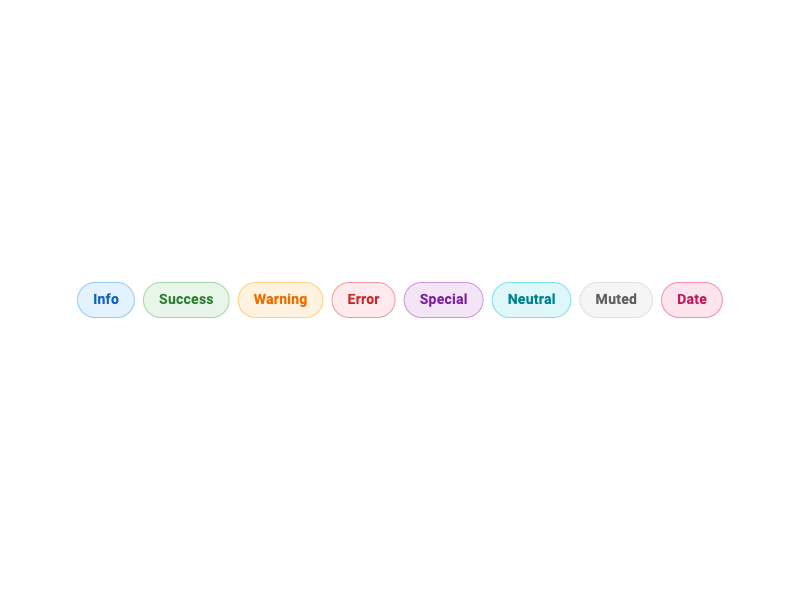
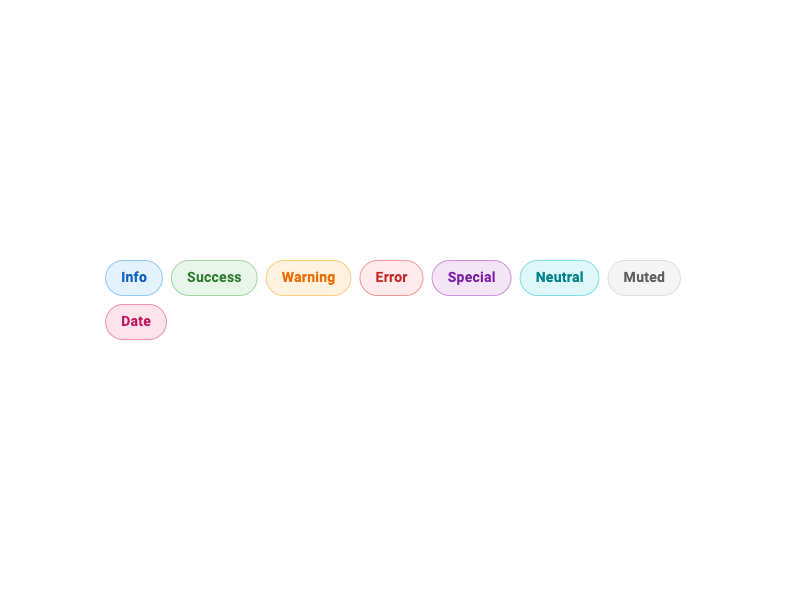
chore: Trim padding from golden screenshots
- Updated `buildTestWrapper` in `test/example_goldens_test.dart` to use `IntrinsicWidth` and remove `Padding`.
    - This forces the `Wrap` widget to shrink to fit its content during golden generation, resulting in tighter screenshots with less empty whitespace.

Changed region(s): [[0.0938, 0.42, 0.9062, 0.57]]

diff --git a/test/example_goldens_test.dart b/test/example_goldens_test.dart
@@ -45,8 +45,7 @@ void main() {
       home: Scaffold(
         backgroundColor: Colors.white,
         body: Center(
-          child: Padding(
-            padding: const EdgeInsets.all(16.0),
+          child: IntrinsicWidth(
             child: child,
           ),
         ),
